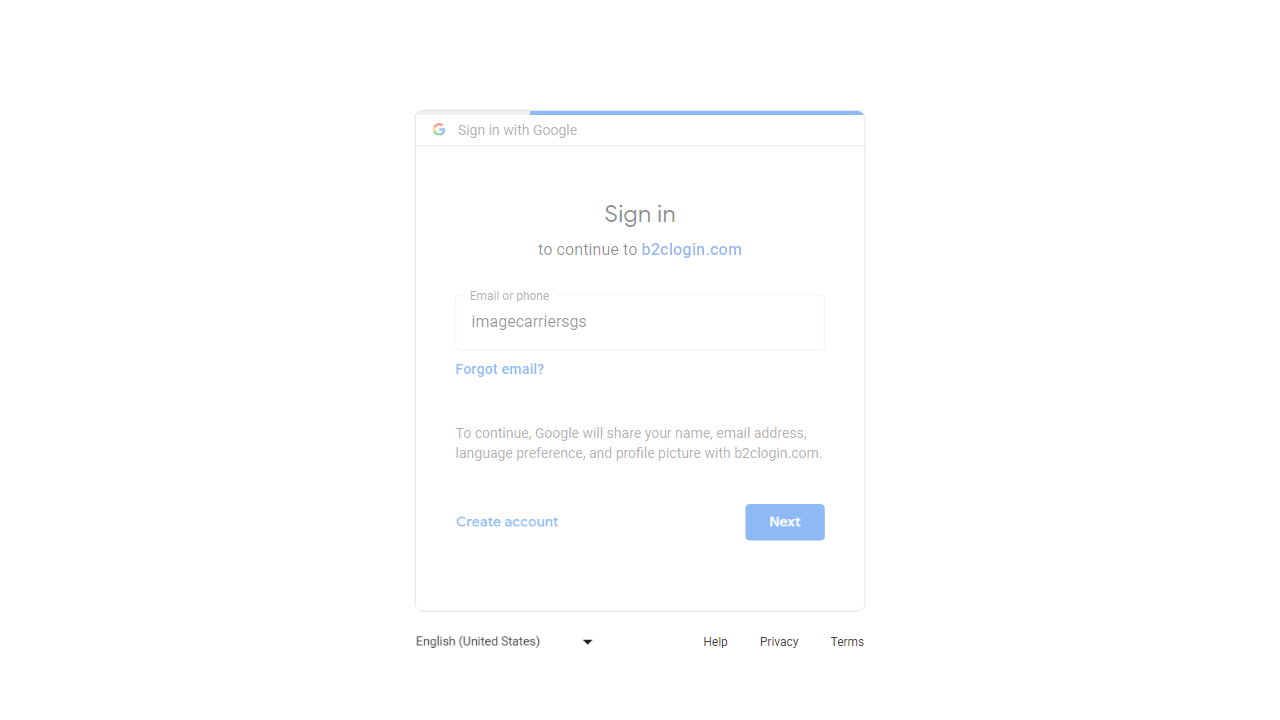
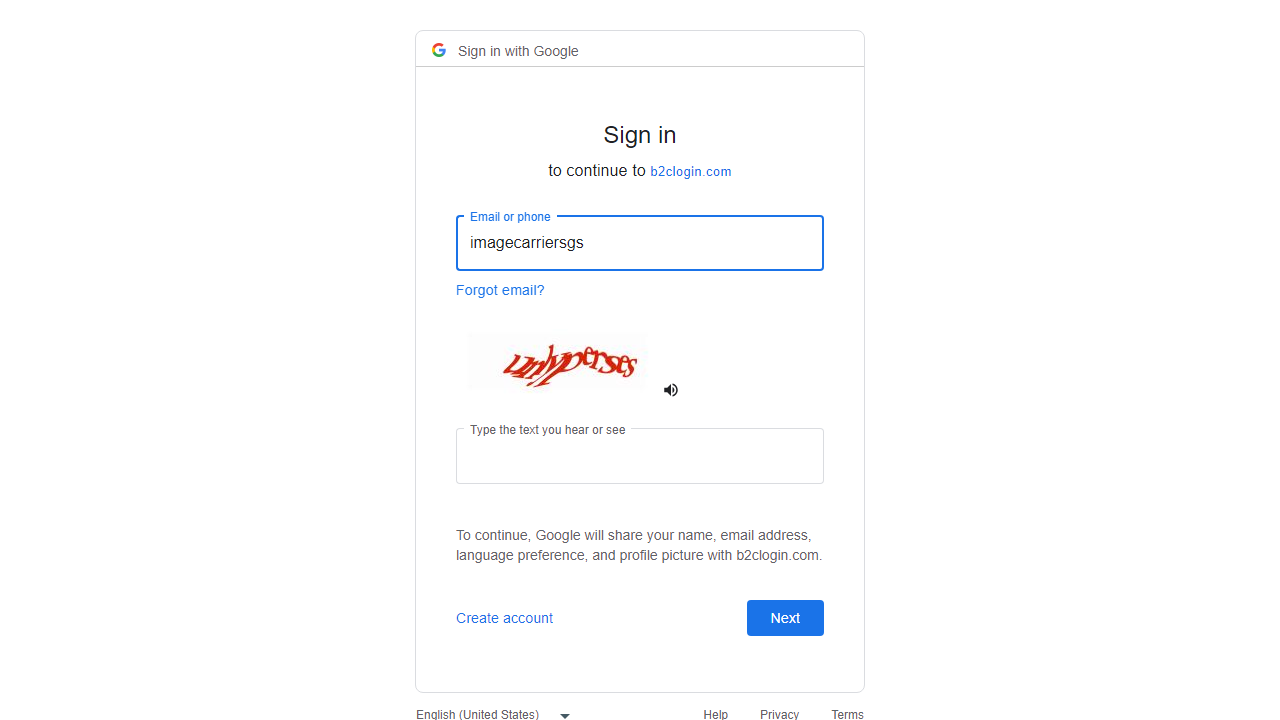
disable-blink-features

diff --git a/playwright-report/index.html b/playwright-report/index.html
@@ -66,4 +66,4 @@ In order to be iterable, non-array objects must have a [Symbol.iterator]() metho
   </body>
 </html>
 <script>
[2 lines of base64/hex data omitted]

diff --git a/src/config/global-setup.ts b/src/config/global-setup.ts
@@ -1,11 +1,11 @@
 import { expect, chromium } from "playwright/test";
 
 module.exports = async () => {
-  const browserServer = await chromium.launchServer();
-  const wsEndpoint = browserServer.wsEndpoint();
-  // Use web socket endpoint later to establish a connection.
-  const browser = await chromium.connect(wsEndpoint);
-  // const browser = await chromium.launch({ headless: false });
+  // const browserServer = await chromium.launchServer();
+  // const wsEndpoint = browserServer.wsEndpoint();
+  // // Use web socket endpoint later to establish a connection.
+  // const browser = await chromium.connect(wsEndpoint);
+  const browser = await chromium.launch({ headless: false });
   await browser.newContext();
   const page = await browser.newPage();
   await page.goto(process.env.VITE_BASE_URL ?? "https://photondev.sgsco.com/");

diff --git a/playwright.config.ts b/playwright.config.ts
@@ -45,6 +45,11 @@ export default defineConfig({
       name: "chromium",
       use: {
         ...devices["Desktop Chrome"],
+        launchOptions: {
+          args: [
+            "--disable-blink-features=AutomationControlled", // needed for gsl so google doesn't flag it as not secure
+          ],
+        },
         channel: "chrome",
         storageState: "state.json",
       },
